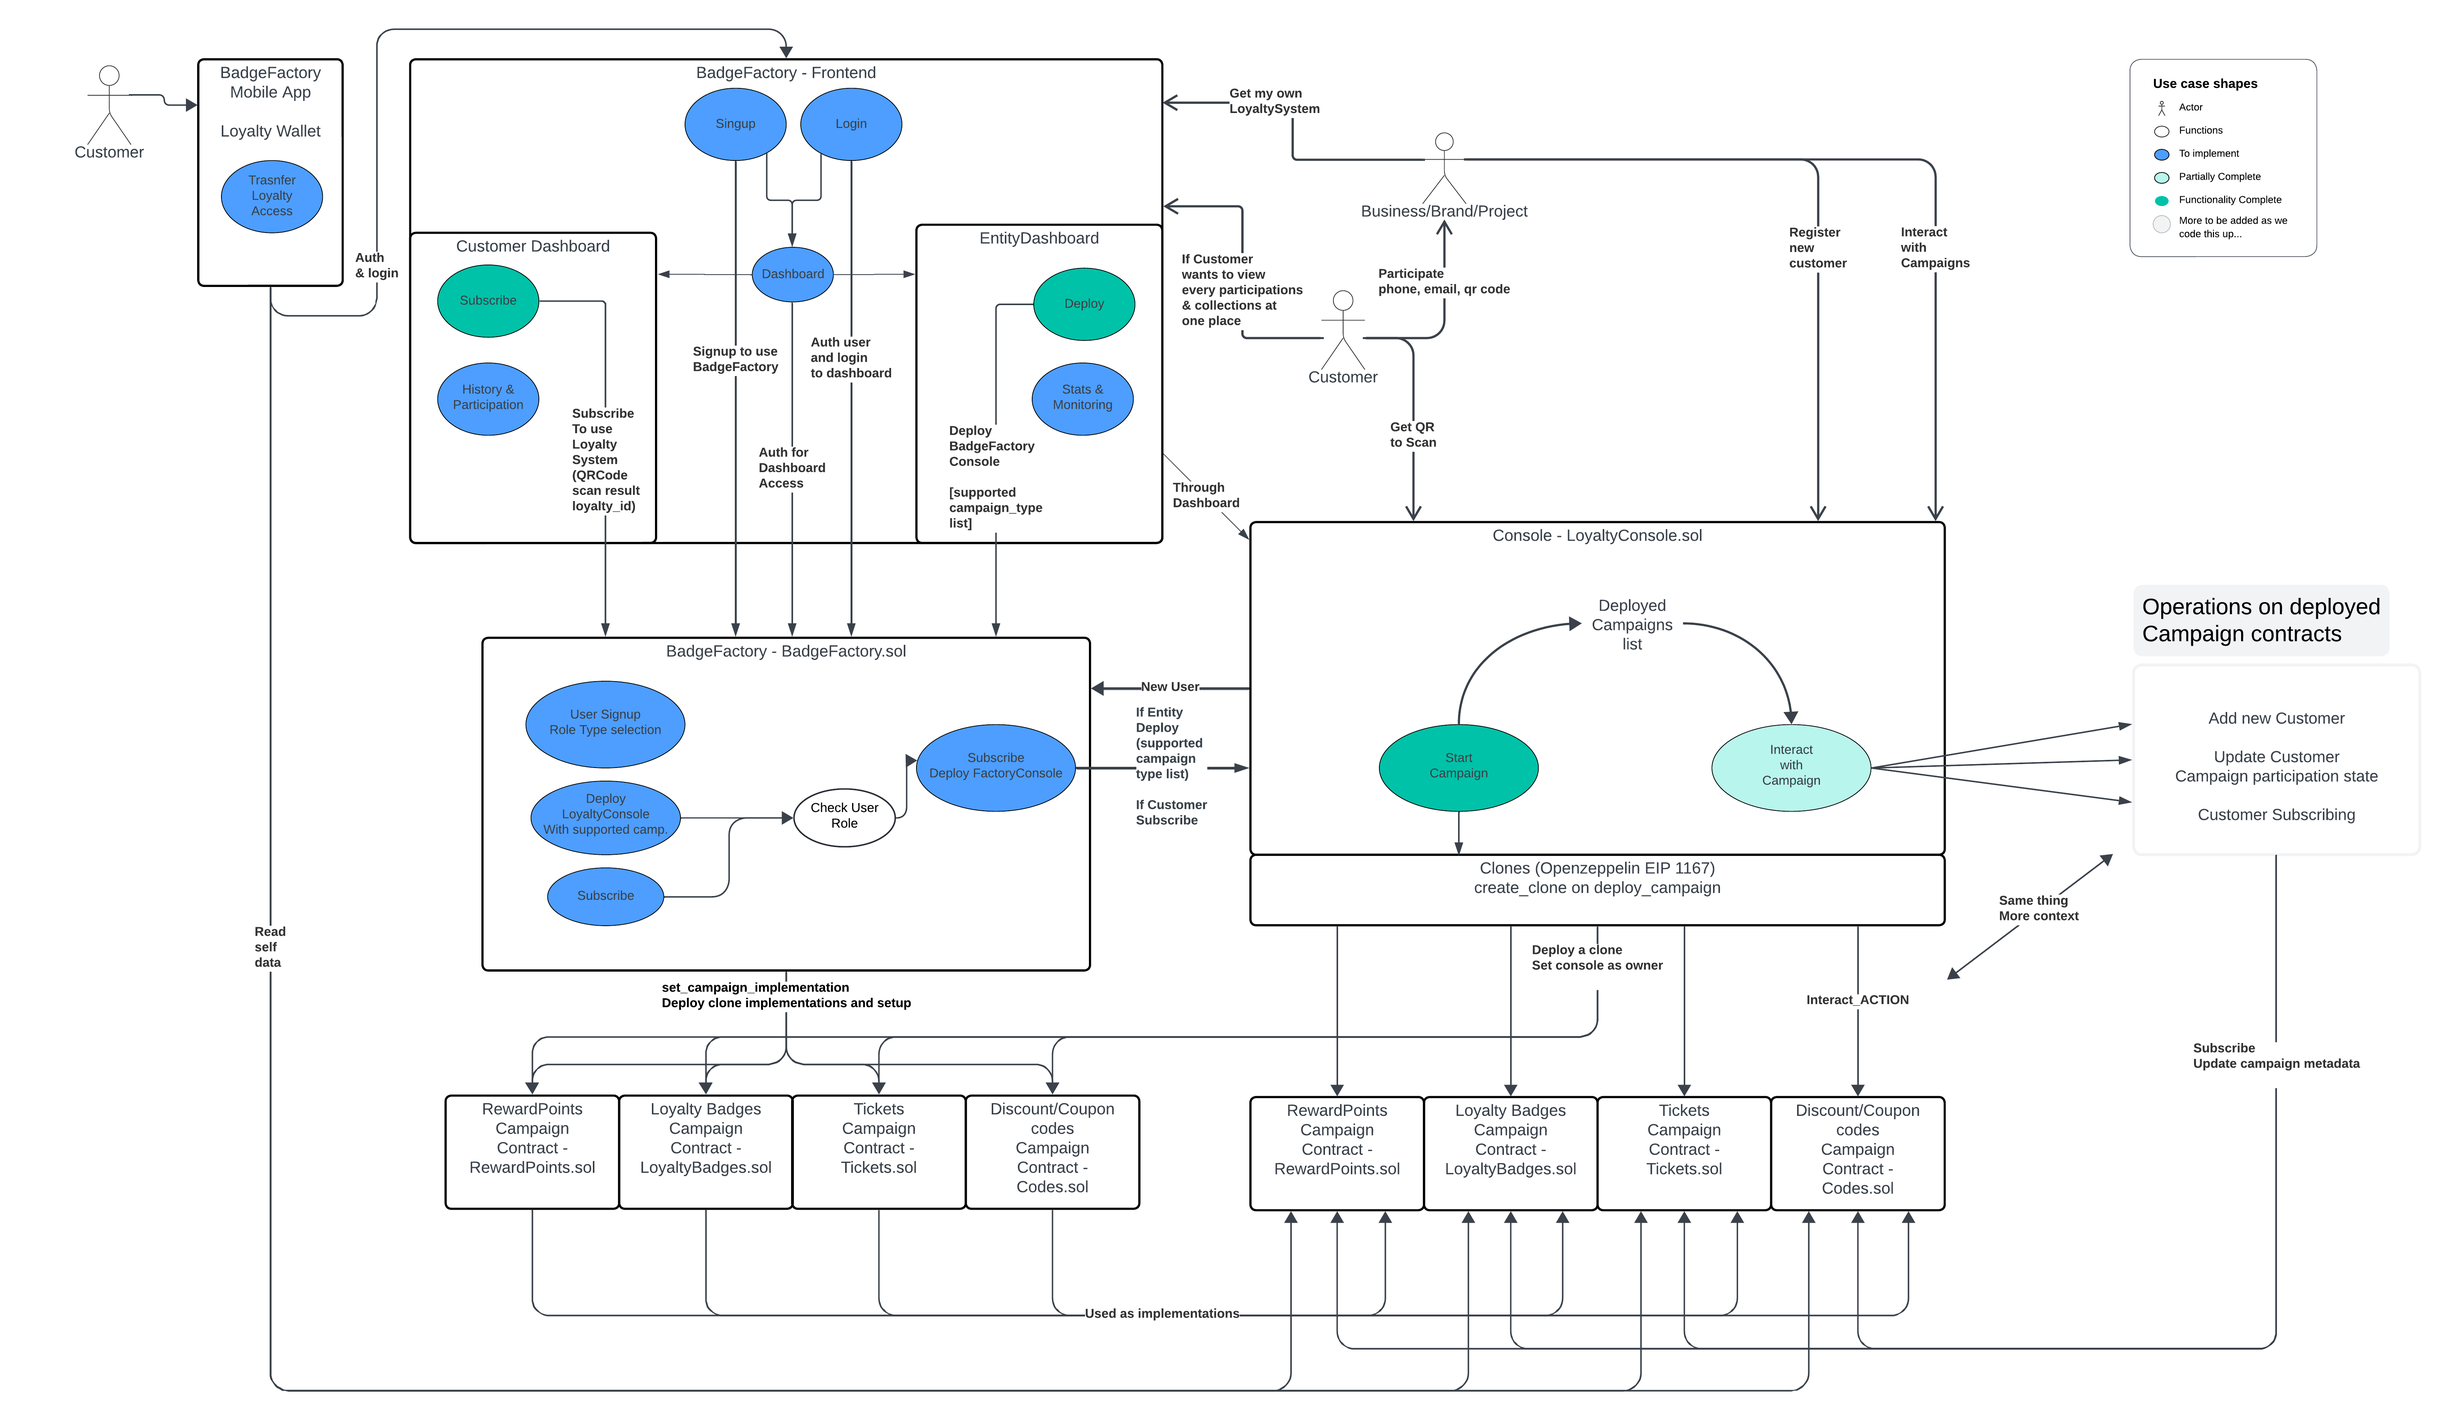
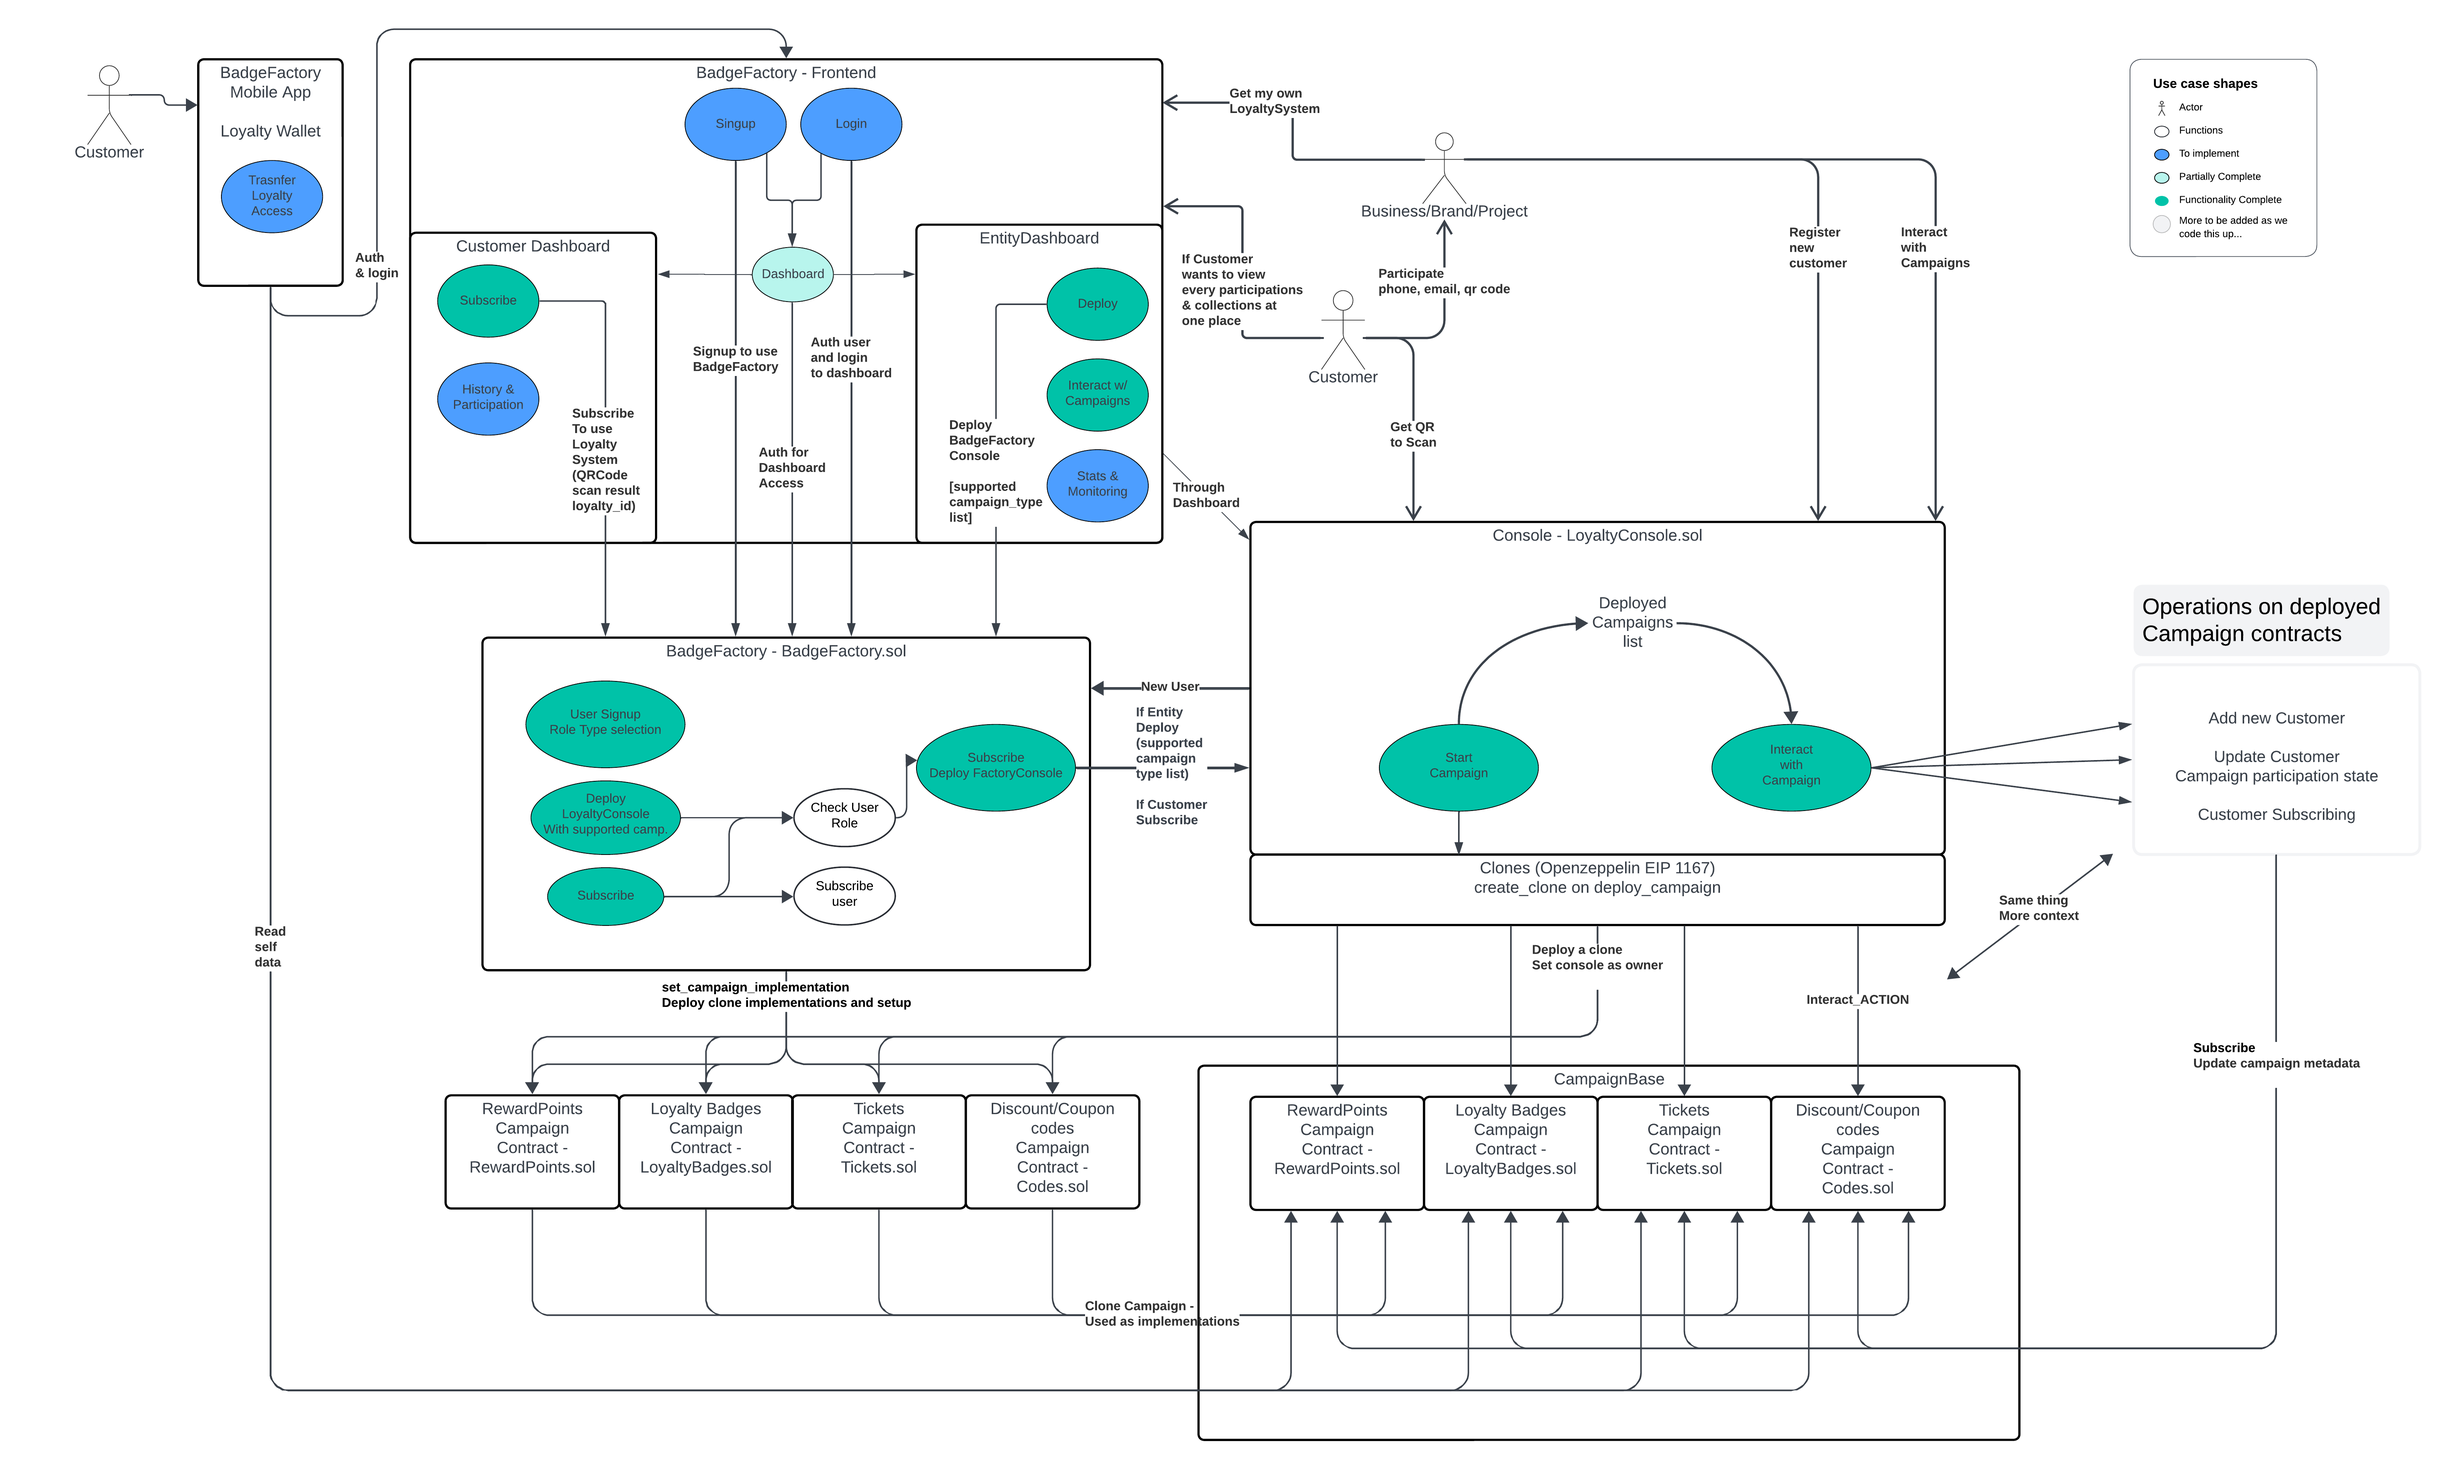
Verify contracts on morphl2 testnet,
Add contract addresses and details, update readme, update workflow uml with current status, start working on frontend for better ui/ux

diff --git a/BadgeFactory_SmartContracts/hardhat.config.js b/BadgeFactory_SmartContracts/hardhat.config.js
@@ -75,14 +75,14 @@ module.exports = {
         // https://docs.morphl2.io/docs/build-on-morph/build-on-morph/verify-your-smart-contracts/
         // @todo fix before submission
         apiKey: {
-            morphTestnet: "TO-DO",
+            tMorph: "abc",
         },
         customChains: [
             {
-                network: "morphTestnet",
+                network: "tMorph",
                 chainId: 2710,
                 urls: {
-                    apiURL: "https://explorer-api-testnet.morphl2.io/api ",
+                    apiURL: "https://explorer-api-testnet.morphl2.io/api",
                     browserURL: "https://explorer-testnet.morphl2.io/",
                 },
             },

diff --git a/BadgeFactory_Dashboard/badgefactory-frontend/src/app/layout.tsx b/BadgeFactory_Dashboard/badgefactory-frontend/src/app/layout.tsx
@@ -5,8 +5,8 @@ import "./globals.css";
 const inter = Inter({ subsets: ["latin"] });
 
 export const metadata: Metadata = {
-  title: "Create Next App",
-  description: "Generated by create next app",
+  title: "BadgeFactory",
+  description: "Unified platform for loyalty management system, on a mission to create globally interlinked loyalty network .0",
 };
 
 export default function RootLayout({

diff --git a/BadgeFactory_SmartContracts/README.md b/BadgeFactory_SmartContracts/README.md
@@ -37,23 +37,6 @@ Following operations will happen on IPFS
 
 #### dev notes:
 
-File - LoyaltyConsole.sol on what Campaign struct contains right now and what is can contain in further developments
-
-```solidity
-// We store this on ipfs so we don't have this on contracts
-// struct Campaign {
-//     uint256 _campaign_id;                // ID [TotalCampaignsDeployed+1] don't have this?
-//     bytes32 _campaign_name;              // 32 lettes name (becuase bytes32, extended can be bytes if needed)
-//     bytes32 _campaign_details;           // 32 letters details (Can change later)
-//     uint256 _campaign_type;              // campaign_type [1, 2, 3, 4]
-//     bool _campaign_active;               // Set later?
-// }
-// What this structure can be
-// Campaign type and details
-// Campaign can also have campaignCreationTimestamp -
-// campaign expiry in campaignExpiryTimestamp/campaignEndTimestamp
-```
-
 File - RewardPoints.sol on how customer subscription to a campaign should work, and with what kind of customer details (For later versions)
 
 ```solidity
@@ -67,9 +50,87 @@ File - RewardPoints.sol on how customer subscription to a campaign should work, 
 ```
 
 further on Campaign struct
+Stored onchain - \_campaign_id, \_campaign_type, \_campaign_owner
+Everything else if stored within this struct of campaignDetails, and then this is stored on ipfs
+Campaign only contains this details hash.
+
+Same as root main README file, internal changes will be updated in this struct
 
 ```solidity
-
+const campaignDetails = {
+    _campaign_id: Number(totalCampaigns) + 1,    // Some identifier, for now we keep it total+1
+    _campaign_type: [1...4],                     // type of campaign (selectable range [1, 4])
+    _campaign_name: "Campaign Name",             // bytes32, only 32 letters ascii
+    _campaign_details: "Campaign Details",       // bytes32, only 32 letters ascii
+    _campaign_start_date: "block.timestamp?",    // Starting datetime of Campaign
+    _campaign_end_date: "block.timestamp?",      // Campaign ending datetime
+    _campaign_owner: address,                    // Which console deployed it
+    _campaign_specific_data: {
+    // Campaign specific data, only one of them will be active for any given campaign and its details
+    // This base structure will expand as new campaign types are added
+    //
+        _reward_points_campaign: {
+            // how do you earn? purchase, interaction, distribution
+            _earning_rules: {
+                // At present we allow redeem/reward or x amount of points
+                // assumption is 1:1, Entity decides how many points to assign for
+                // any given interaction or purchase or visit or anything reward worthy
+                _default_rate: 1,       // We may add customization to change this
+                _changers_updaters: {}, // Incase of custom reward points redeem/reward rule need
+            },
+            _welcome_bonus: 10000,       // If Entity would like to give them welcome bonus as soon as they(customers) subscribe or register themselves
+            _earning_ceiling: 5000000,   // any max amount customers can obtain before hiting ceiling
+            // how do you redeem
+            _max_redeemable_at_once: 5000,  // Max in one interaction. can be 0 for any amount allowed
+            _redemption_option: {}, // Not need for now, may be prefix points->product kind of thing
+            // is expirable?
+            _is_expirable: false,
+            _expiry: timestamp,
+            // is transferable?
+        },
+        _badges_campaign: {
+            // Badge criteria - what it's given for, ex. ["Top User of the Day/Week/Month/Year" or something :D]
+            _types_of_badges: 10,               // Number of different types of badges (in view and their utility decided by Entity)
+            _badges_details: [
+                // This will repeat for all types of badges
+                {
+                    _badge_for: "string",
+                    _badge_details: "",
+                    // Badge itself - the UI and look and feel of badge (image or gif or svg -> ipfs)
+                    _badge_view: img | svg | gif,
+                    _can_expire: true/false,
+                    _expiry: timestamp,
+                    _can_transfer: true/false,
+                    _img_ipfs_hash: bytes,
+                    // can add more functional details but these are mainly for UI/UX
+                    // smartcontracts are only handling the hash of that ipfs data
+                    // This can change based on which details are important enough to be
+                    // kept in the contract itself, for example - timestamps seem they belong on
+                    // contract as they can be used for verification. And more..
+                },
+            ],
+            // Badge Visibility (publicly visible to everyone or limited visibility)
+            _badge_visibility: "string",
+        },
+        _tickets_campaign: {
+            // What are they for
+            // Expiry
+            // is Transferable?
+            // any other restrictions...
+            // Not considering for this hackathon, but will add once it's done
+        },
+        _codes_campaign: {
+            // What is it? Coupon code or discount code
+            // If coupon, how much discount does it apply
+            // If discount code, what discount that code relates to
+            // expiry,
+            // is Transferable?
+            // any other restrictions..
+            // Not considering for this hackathon, but will add once it's done.
+        },
+    },
+    _campaign_active: true,                         // Is campaign currently active
+};
 ```
 
 #### about using ipfs:

diff --git a/README.md b/README.md
@@ -14,12 +14,15 @@ More will be added here as I progress on creating BadgeFactory for this hackatho
 
 ---
 
+Update: 18/04
+All deployed smart contracts on morphl2 sepolia are now verified. Use remix as controlpanel or interact directly on morphl2 sepolia testnet explorer.
+
 Update: 17/04
 BadgeFactory and LoyaltyConsole deployment on MorphL2 sepolia testnet
 Here are the details
 
 ```
-MorphL2 Testnet Deployments
+MorphL2 Testnet Deployments (Verified on MorphL2 Sepolia Testnet)
 https://explorer-testnet.morphl2.io/
 
 FactoryOwner: 0xBcE03a4B33337E4776d845909C041CAAD4799790
